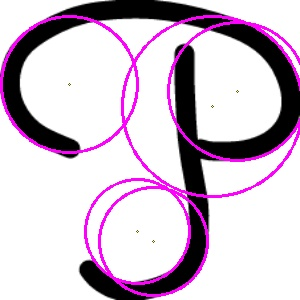
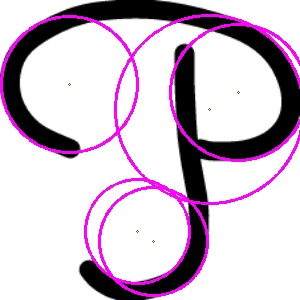
[REFACTO] Detection

diff --git a/src/App.java b/src/App.java
@@ -1,5 +1,3 @@
-import org.opencv.highgui.HighGui;
-
 import javax.imageio.ImageIO;
 import javax.swing.*;
 import java.awt.*;
@@ -9,8 +7,6 @@ import java.io.IOException;
 import java.util.ArrayList;
 import java.util.List;
 import java.util.Vector;
-
-import static org.opencv.imgcodecs.Imgcodecs.imwrite;
 
 public class App extends JFrame {
 
@@ -57,10 +53,10 @@ public class App extends JFrame {
         List<HoughLine> lines = new ArrayList(transformHough.getLines(10, 32));
         lines = reductionLineSimilar(lines);
         save(im, "image" + index);
-        System.out.println(" nb= lines " + lines.size());
+        System.out.println("nb of lines " + lines.size());
         imagePanel = new ImagePanel(lines, index);
         initFrame();
-        System.out.println("num points :" + transformHough.numPoints);
+        System.out.println("nb of points :" + transformHough.numPoints);
         return lines;
     }
 
@@ -75,7 +71,7 @@ public class App extends JFrame {
         im = processImage.formatageImCircle(im);
         save(im, "redecoupage" + index);
         BufferedImage imCircle = new HoughEllipse().run("redecoupage"+index);
-        save(imCircle,"testCircle"+index);
+        save(imCircle,"testCircle"+ index);
     }
 
     void initFrame() {
@@ -195,9 +191,7 @@ public class App extends JFrame {
                         j -= 1;
                     }
                 }
-
                 j++;
-
             }
             i++;
         }
@@ -259,7 +253,7 @@ public class App extends JFrame {
     }
 
    double compareLetter(List<HoughLine> linesP, List<HoughLine> linesM) {
-        System.out.println(" Validation ::");
+        System.out.println(" Validation :");
         int i = 0, j;
         double nbValidateLine=0;
 

diff --git a/src/HoughEllipse.java b/src/HoughEllipse.java
@@ -9,8 +9,6 @@ import java.awt.image.BufferedImage;
 import java.io.ByteArrayInputStream;
 import java.io.ByteArrayOutputStream;
 import java.io.IOException;
-import java.util.ArrayList;
-import java.util.List;
 
 class HoughEllipse {
 
@@ -22,8 +20,7 @@ class HoughEllipse {
 
         if( src.empty() ) {
             System.out.println("Error opening image!");
-            System.out.println("Program Arguments: [image_name -- default "
-                    + file +"] \n");
+            System.out.println("Program Arguments: [image_name -- default " + file +"] \n");
             System.exit(-1);
         }
 
@@ -33,7 +30,7 @@ class HoughEllipse {
         Mat circles = new Mat();
         Imgproc.HoughCircles(gray, circles, Imgproc.HOUGH_GRADIENT, 1.0,
                 (double)gray.rows()/16, // change this value to detect circles with different distances to each other
-                100.0, 30.0, 1, 110); // change the last two parameters
+                100.0, 30.0, 1, 100 ); // change the last two parameters
         // (min_radius & max_radius) to detect larger circles
         for (int x = 0; x < circles.cols(); x++) {
             double[] c = circles.get(0, x);
